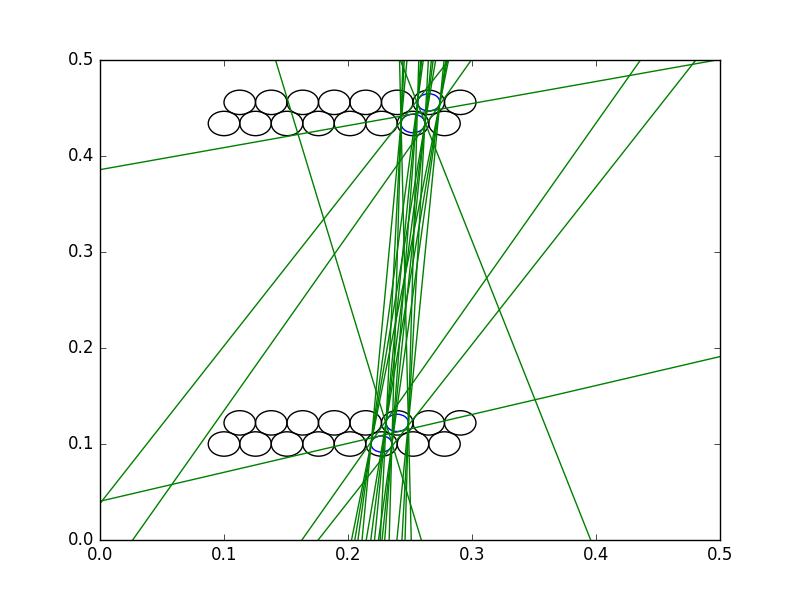
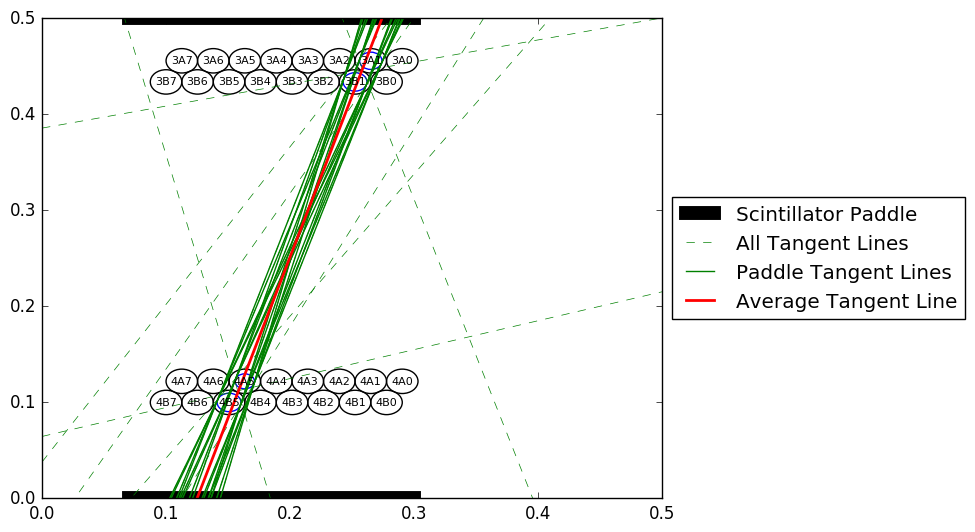
Added paddle filter for tan lines and pretty plotting

diff --git a/main.py b/main.py
@@ -1,4 +1,4 @@
-# The main script.  Run this script to run the program
+# The main script.  Run this script to analyze a .gon event file
 from holder import *
 import circlecalc as cc
 import numpy as np
@@ -6,8 +6,12 @@ import matplotlib.pyplot as plt
 
 # define what to plot
 plotTubes = True
+plotTubeLabels = True
+plotPaddles = True
 plotHitCircles = True
-plotPossibleTanLines = True
+plotAllPossibleTanLines = True
+plotPaddleTanLines = True
+plotAverageTanLine = True
 
 #******************Load tube position data*****************#
 # get the x,y positions of each tube in m.  load them into a dict using names as keys
@@ -34,13 +38,20 @@ with open("sampledata/event1.gon", "r") as file:
 
 #******************Find possible tan lines*******************#
 # list to be filled with tanLine objects representing every possible tan line for every pair of tubehits
-tanList = []
+rawTanList = []
 # fill tanList by iterating through every combination of tubehits
 for i in range(len(dataArray)):
     for j in range(i+1, len(dataArray)):
-        tanList = tanList + cc.possibleTan(dataArray[i], dataArray[j])
-
-
+        rawTanList = rawTanList + cc.possibleTan(dataArray[i], dataArray[j])
+# list filled with tanLine objects representing only lines that pass through both paddles
+paddleTanList = cc.removeSideTanLines(rawTanList)
+# look for avg tan line in terms of slope, intercept
+m, b = 0, 0
+for line in paddleTanList:
+    m = m + line.m
+    b = b + line.b
+# the average tan line
+avgLine = tanLine(m/len(paddleTanList), b/len(paddleTanList))
 
 # ***********************Draw everything**********************#
 # create the drawing
@@ -49,15 +60,35 @@ fig, ax = plt.subplots()
 if plotTubes:
     for name, pos in tubepos.items():
         ax.add_artist(plt.Circle(pos, OUTER_RADIUS, fill=False, color='black'))
+        if plotTubeLabels:
+            ax.text(pos[0], pos[1], name, size=8, ha="center", va="center")
 # draw all hit circles if requested
 if plotHitCircles:
     for hit in dataArray:
         ax.add_artist(plt.Circle((hit.x, hit.y), hit.r, fill=False, color='blue'))
+# draw both paddles if requested
+if plotPaddles:
+    ax.plot([PADDLE_MIN_X, PADDLE_MAX_X], [PADDLE_MIN_Y, PADDLE_MIN_Y], color='black', lw=10, label="Scintillator Paddle")
+    ax.plot([PADDLE_MIN_X, PADDLE_MAX_X], [PADDLE_MAX_Y, PADDLE_MAX_Y], color='black', lw=10)
 # draw all possible tan lines if requested
-if plotPossibleTanLines:
-    for line in tanList:
-        fig.plot([0, 1], [line.y(0), line.y(1)], color="green")
+if plotAllPossibleTanLines:
+    for line in rawTanList:
+        lab, = ax.plot([0, 1], [line.y(0), line.y(1)], color="green", ls="--", lw=0.5)
+    lab.set_label("All Tangent Lines")
+# draw all tan lines through paddle if requested
+if plotPaddleTanLines:
+    for line in paddleTanList:
+        lab, = ax.plot([0, 1], [line.y(0), line.y(1)], color="green", ls="-", lw=1)
+    lab.set_label("Paddle Tangent Lines")
+# draw average tan line if requested
+if plotAverageTanLine:
+    lab, = ax.plot([0, 1], [avgLine.y(0), avgLine.y(1)], color="red", ls="-", lw=2)
+    lab.set_label("Average Tangent Line")
+# draw legend to right of graph
+lgd = ax.legend(loc='center left', bbox_to_anchor=(1, 0.5))
+
+
 # size the drawing and save it
 plt.xlim((0, 0.5))
 plt.ylim((0, 0.5))
-fig.savefig("name.png")
+fig.savefig("name.png", bbox_extra_artists=(lgd,), bbox_inches="tight")

diff --git a/circlecalc.py b/circlecalc.py
@@ -1,4 +1,4 @@
-# A file to hold functions relating to calclations on the circles
+# A file to hold functions relating to calculations on the circles
 from holder import *
 from numpy import sqrt
 
@@ -32,3 +32,13 @@ def possibleTan(tubehit1, tubehit2):
 
                 tanList.append(tanLine(slope, intercept))
     return tanList
+
+# given a list of tanLines, removes all of those that don't pass through both paddles
+# returns this new list of tanLines
+def removeSideTanLines(tanList):
+    newList = []
+    for line in tanList:
+        if not (line.x(PADDLE_MAX_Y) > PADDLE_MAX_X or line.x(PADDLE_MAX_Y) < PADDLE_MIN_X or
+                line.x(PADDLE_MIN_Y) > PADDLE_MAX_X or line.x(PADDLE_MIN_Y) < PADDLE_MIN_X):
+            newList.append(line)
+    return newList

diff --git a/holder.py b/holder.py
@@ -3,8 +3,10 @@
 OUTER_RADIUS = 0.0127
 WIRE_RADIUS = 0.00005
 DRIFT_VELOCITY = 60000
-PADDLE_MIN_X = 0
-PADDLE_MAX_X = 0.5
+PADDLE_MIN_X = 0.07
+PADDLE_MAX_X = 0.3
+PADDLE_MIN_Y = 0
+PADDLE_MAX_Y = 0.5
 
 # Holder class for an event that triggers a tube
 class tubehit:
@@ -30,4 +32,7 @@ class tanLine:
     def y(self, x):
         return self.m * x + self.b
 
+    # return the value of the x coord for a given y coord
+    def x(self, y):
+        return (y-self.b)/self.m
 
